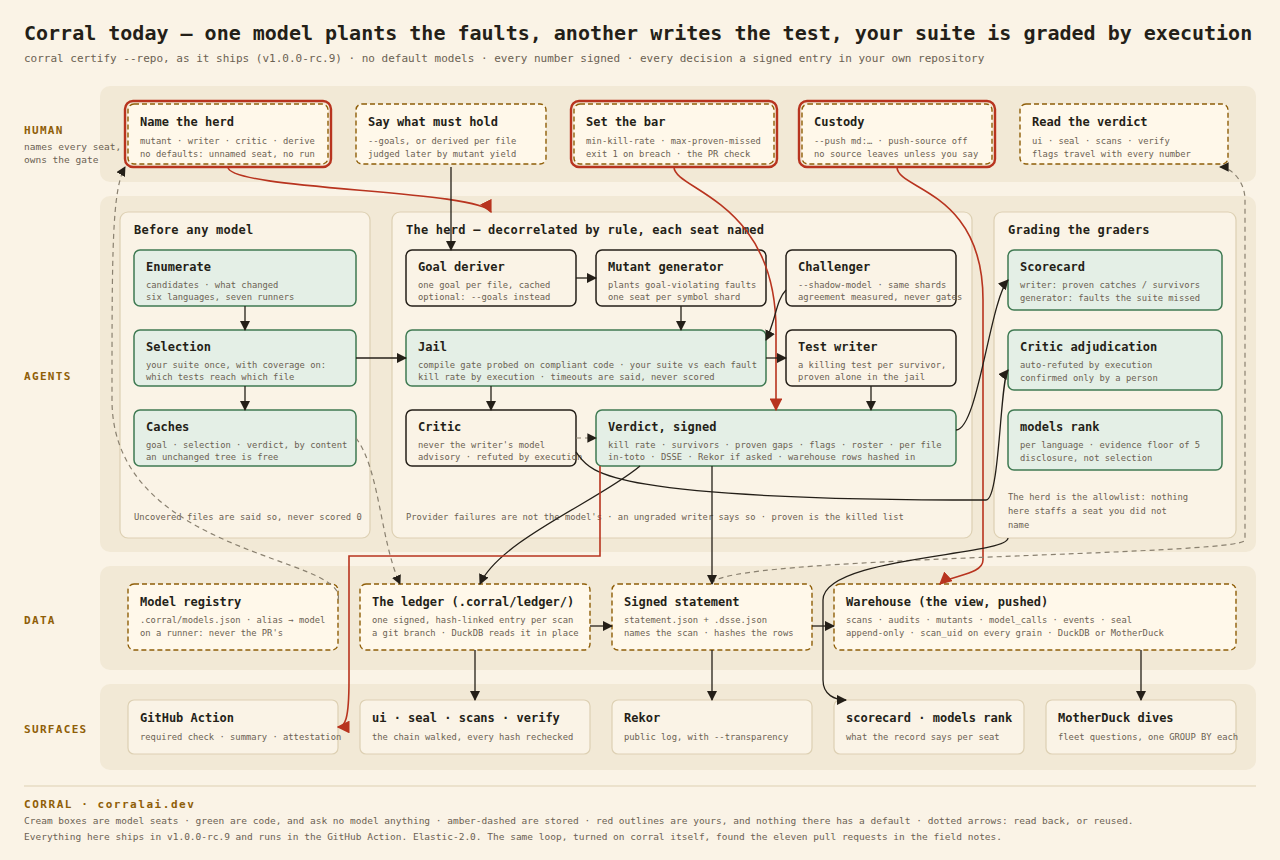
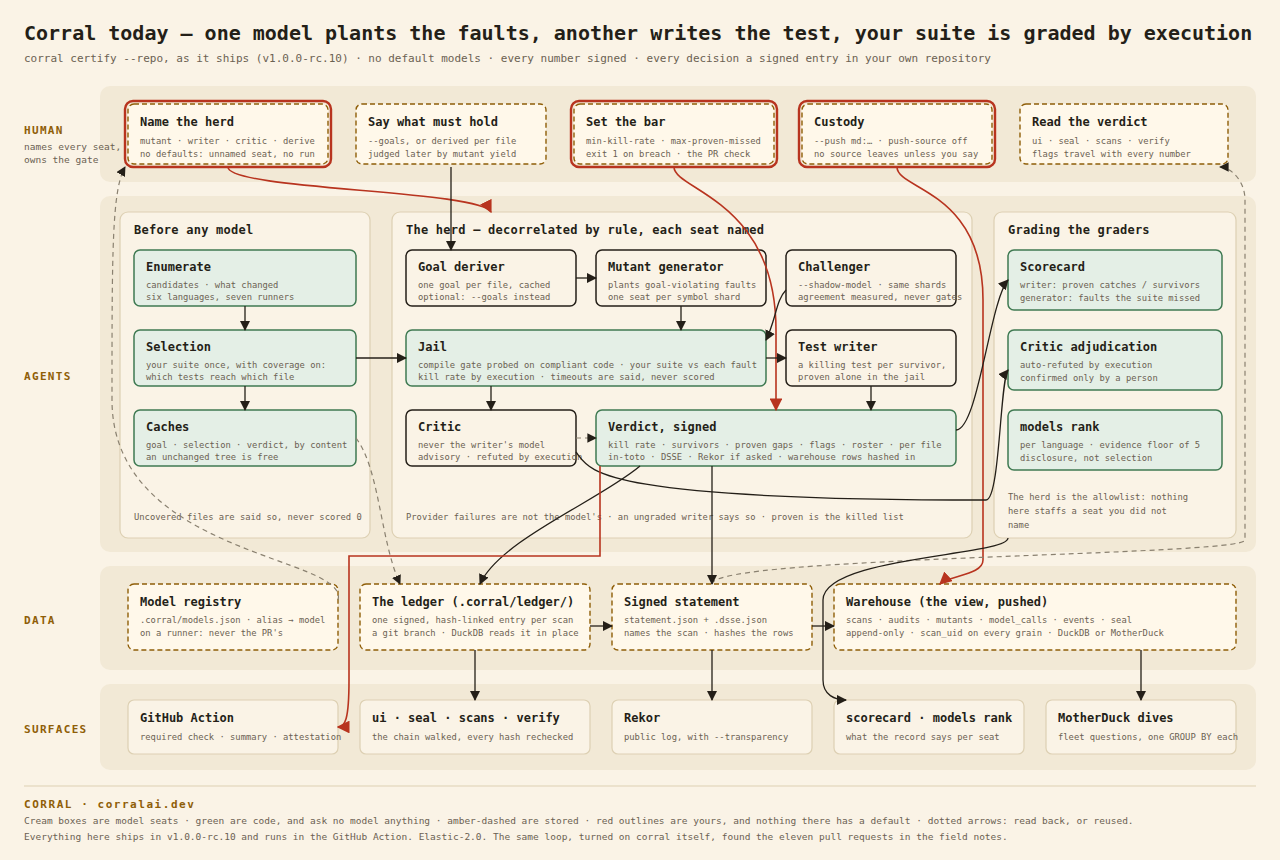
docs: pin v1.0.0-rc.10 (#308)
Claude-Session: https://claude.ai/code/session_019WGMcPXm42zsFf6nqfbH1A

Changed region(s): [[0.1875, 0.9674, 0.7812, 0.9977], [0.25, 0.0605, 0.7812, 0.0907]]

diff --git a/docs/corral/github-action.md b/docs/corral/github-action.md
@@ -164,7 +164,7 @@ slow"`), not a shell one-liner that chains multiple commands.
 
 **There is no `v1` tag, but there are pinnable release tags.** `v0.1.0` and
 `v0.2.0` predate the action and carry no `action.yml`; **`v0.3.0` and later do**
-(`v1.0.0-rc.9` is current). Prefer `pdbethke/corralai@v1.0.0-rc.9` over `@main` — pinning
+(`v1.0.0-rc.10` is current). Prefer `pdbethke/corralai@v1.0.0-rc.10` over `@main` — pinning
 a tag means a push to `main` cannot change what runs in your CI. Pin the commit
 SHA you reviewed (`pdbethke/corralai@<sha>`) if you want an immutable reference
 that a re-tag also cannot move. `@main` still works and tracks the newest
@@ -531,7 +531,7 @@ over both, not the store.
             git worktree add --detach .corral-ledger
             (cd .corral-ledger && git checkout --orphan corral/ledger && git rm -rfq . && echo "corral's record — see docs/corral/github-action.md" > README.md)
           fi
-      - uses: pdbethke/corralai@v1.0.0-rc.9
+      - uses: pdbethke/corralai@v1.0.0-rc.10
         with:
           test-command: pytest -q
           ledger: .corral-ledger
@@ -799,7 +799,7 @@ of every existing caller of this action.
 Set `min-kill-rate` (a number from `0.0` to `1.0`) to give the gate teeth:
 
 ```yaml
-- uses: pdbethke/corralai@v1.0.0-rc.9
+- uses: pdbethke/corralai@v1.0.0-rc.10
   with:
     test-command:  "go test ./..."
     gemini-key:    ${{ secrets.GEMINI_API_KEY }}
@@ -840,7 +840,7 @@ The audit is the gate by execution. The review is the gate by adversary,
 and the same step runs it when `reviewer-model` is named:
 
 ```yaml
-      - uses: pdbethke/corralai@v1.0.0-rc.9
+      - uses: pdbethke/corralai@v1.0.0-rc.10
         with:
           test-command: "go test ./..."
           mutant-model: gemini-3.6-flash

diff --git a/README.md b/README.md
@@ -26,7 +26,7 @@ package with a five-clause password rule and a test that checks only two of
 them, then audits it with the real `certify --local`:
 
 ```bash
-go install github.com/pdbethke/corralai/cmd/corral@v1.0.0-rc.9   # @latest still resolves to 0.8.x: a release candidate is a pre-release to Go
+go install github.com/pdbethke/corralai/cmd/corral@v1.0.0-rc.10   # @latest still resolves to 0.8.x: a release candidate is a pre-release to Go
 export ANTHROPIC_API_KEY=sk-ant-...     # or OPENAI_/GEMINI_/OPENROUTER_API_KEY
 
 corral demo --writer-model <model> --mutant-model <model> --critic-model <model>
@@ -491,7 +491,7 @@ those seats work in and the **fences** are the security boundaries.
 
 ## In CI — the GitHub Action
 
-**No brain, no server — the GitHub Action.** `pdbethke/corralai@v1.0.0-rc.9` (pin the
+**No brain, no server — the GitHub Action.** `pdbethke/corralai@v1.0.0-rc.10` (pin the
 tag, or a reviewed SHA — `@main` floats) runs `corral
 certify --repo` straight in your own CI job, on the checkout that's already
 there: no jail, no brain, no separate infra. It mutates the runner's checkout

diff --git a/docs/corral/internal-forge.md b/docs/corral/internal-forge.md
@@ -94,7 +94,7 @@ corral:
     # CORRALAI_CERTIFY_KEY (hex seed), CORRAL_LEDGER_TOKEN, GEMINI_API_KEY and
     # ANTHROPIC_API_KEY are masked CI/CD variables, never in this file.
   before_script:
-    - go install github.com/pdbethke/corralai/cmd/corral@v1.0.0-rc.9
+    - go install github.com/pdbethke/corralai/cmd/corral@v1.0.0-rc.10
     - export PATH="$PATH:$(go env GOPATH)/bin"
     - git remote set-url origin "https://oauth2:${CORRAL_LEDGER_TOKEN}@${CI_SERVER_HOST}/${CI_PROJECT_PATH}.git"
   script:
@@ -117,7 +117,7 @@ checks it anywhere.
 
 The recipe is the same shell; only the push credential and the
 target-branch variable change. Gitea Actions runs GitHub-style workflows,
-so the Action's own YAML works there with `uses: pdbethke/corralai@v1.0.0-rc.9`
+so the Action's own YAML works there with `uses: pdbethke/corralai@v1.0.0-rc.10`
 pointed at a mirror (Gitea resolves `uses:` against `github.com` by
 default) and `actions/attest` removed — there is no attestation API to
 call. Bitbucket Pipelines: `BITBUCKET_PR_DESTINATION_BRANCH` is the target,

diff --git a/ROADMAP.md b/ROADMAP.md
@@ -164,7 +164,7 @@ Go binary.**
   a whole-repo scan of this repo's 205 candidates would be roughly 37 hours, which
   is why `top` exists.
 
-  `action.yml` wraps this as `pdbethke/corralai@main` (tags are cut — `@v1.0.0-rc.9` is current; pin a commit SHA for immutability against a re-tag); it installs `corral` itself via
+  `action.yml` wraps this as `pdbethke/corralai@main` (tags are cut — `@v1.0.0-rc.10` is current; pin a commit SHA for immutability against a re-tag); it installs `corral` itself via
   `go install`, using whatever Go toolchain the runner already has (never
   `actions/setup-go`, which would swap out the toolchain the audited project's own
   tests run under). Check out with `fetch-depth: 0` (required — the diff needs the merge

diff --git a/docs/corral/actions-as-swarm.md b/docs/corral/actions-as-swarm.md
@@ -33,7 +33,7 @@ jobs:
       - uses: actions/checkout@v4
         with:
           fetch-depth: 0      # required — see github-action.md's "fetch-depth: 0 is required"
-      - uses: pdbethke/corralai@v1.0.0-rc.9
+      - uses: pdbethke/corralai@v1.0.0-rc.10
         with:
           test-command: "python -m pytest -q"
           # diff-base left empty: on a pull_request event the action already
@@ -80,7 +80,7 @@ acceptable on a recurring basis) with an empty `diff-base` and a `top` bound
 covers the rest:
 
 ```yaml
-  - uses: pdbethke/corralai@v1.0.0-rc.9
+  - uses: pdbethke/corralai@v1.0.0-rc.10
     with:
       test-command: "python -m pytest -q"
       diff-base: ""        # whole-repo scope — see "why scoped by default"
